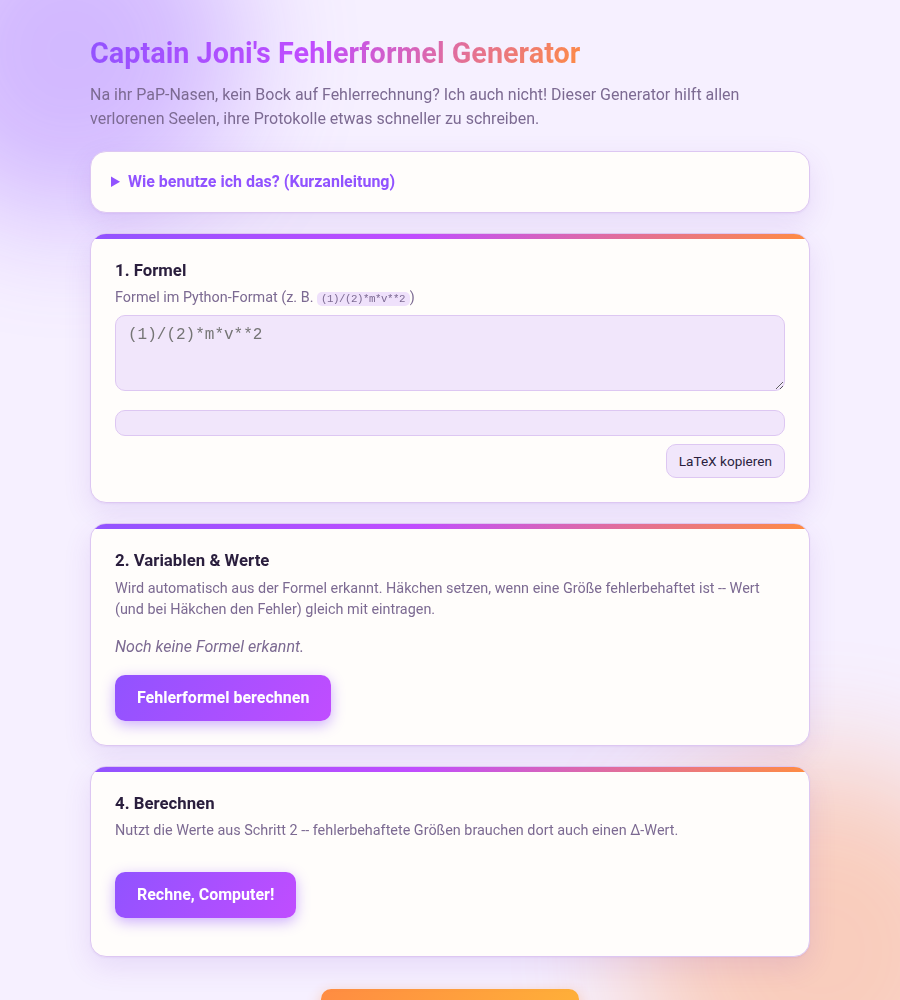
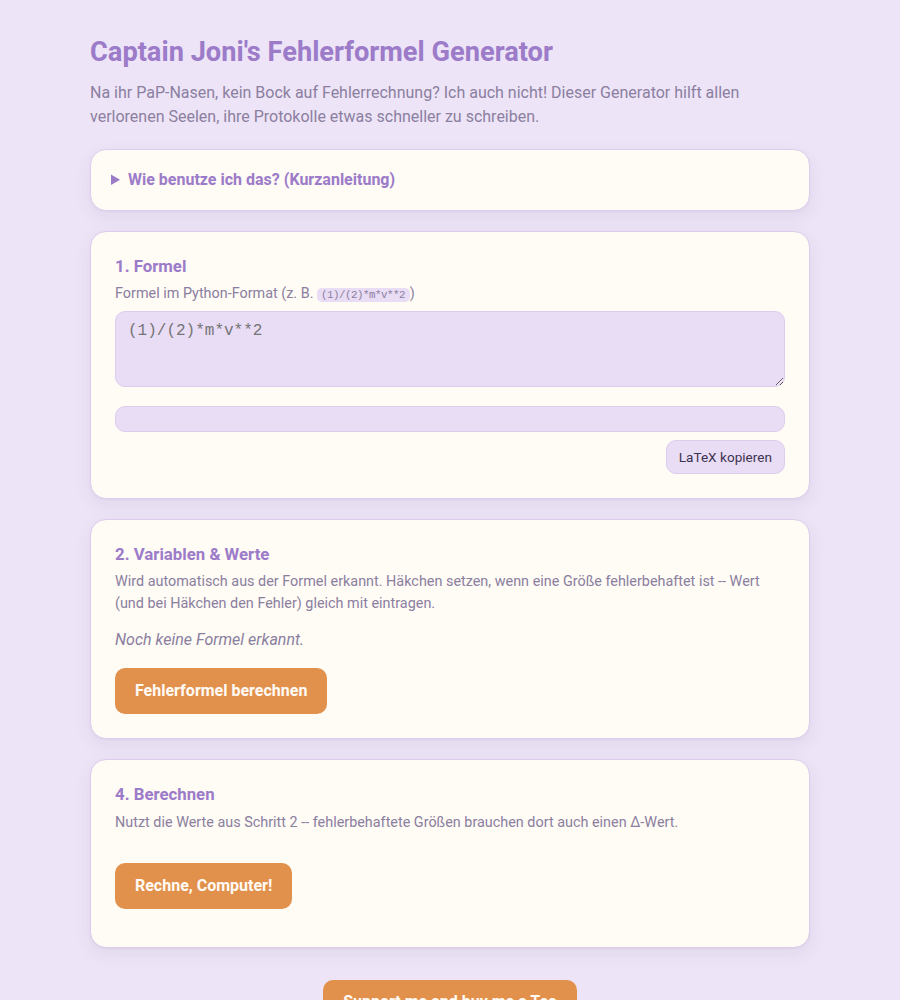
Tone down restyle: calmer, cozy pastel instead of neon/cyberpunk
The previous pass (6c60b06) was too much -- gradient headline, glowing
button shadows, blurred decorative blobs, saturated colors. Replaced with
a plain, muted pastel palette: soft lavender page background, warm cream
cards, no gradients/glow/decorative shapes anywhere.

Kept the purple/orange split but reassigned the roles per feedback: purple
(--accent) is now the calm, ambient/structural color (background, card
borders, headings, links) and orange (--accent2) is reserved specifically
for interactive highlights -- every button, focus rings, known-constant
chips, the numeric result. Verified with the full Playwright regression
suite in both light and dark color-scheme emulation, and a rebuilt
docker-compose.local.yml container. README screenshots regenerated.

Changed region(s): [[0.0933, 0.496, 1.0, 1.0], [0.0, 0.0, 0.9022, 0.341], [0.1244, 0.403, 0.8711, 0.465]]

diff --git a/public/styles.css b/public/styles.css
@@ -1,44 +1,45 @@
 :root {
-    --bg: #f6f0ff;
-    --surface: #fffdfb;
-    --surface-muted: #f1e6fb;
-    --border: #ddc7f2;
-    --text: #2a1e3d;
-    --text-muted: #7c6a92;
-    --accent: #9153ff;
-    --accent-hover: #7c3aed;
+    --bg: #ede4f7;
+    --surface: #fffbf5;
+    --surface-muted: #e9dcf5;
+    --border: #ddccec;
+    --text: #3d3350;
+    --text-muted: #8b7fa0;
+    --accent: #9c7bc9;
+    --accent-hover: #8a67b8;
     --accent-contrast: #ffffff;
-    --accent2: #ff8c42;
-    --accent2-hover: #f7740f;
-    --accent2-contrast: #2a1206;
-    --danger-bg: #fdecea;
-    --danger-border: #f2b8b5;
-    --danger-text: #7a1f1a;
-    --code-bg: #efe1fb;
-    --shadow: 0 1px 2px rgba(120, 60, 200, 0.07), 0 10px 28px rgba(120, 60, 200, 0.12);
+    --accent2: #e2914c;
+    --accent2-hover: #cf7f3c;
+    --accent2-contrast: #fffaf4;
+    --accent2-soft: #f6e6d2;
+    --danger-bg: #fbeceb;
+    --danger-border: #f0c4c1;
+    --danger-text: #7a3a34;
+    --code-bg: #e9dcf5;
+    --shadow: 0 1px 2px rgba(80, 60, 100, 0.05), 0 6px 18px rgba(80, 60, 100, 0.07);
     --radius: 16px;
-    --gradient: linear-gradient(120deg, var(--accent), #c04dff 45%, var(--accent2));
 }
 
 @media (prefers-color-scheme: dark) {
     :root {
-        --bg: #180f26;
-        --surface: #241834;
-        --surface-muted: #2f2143;
-        --border: #46325f;
-        --text: #f5eeff;
-        --text-muted: #b6a3cf;
-        --accent: #b98bff;
-        --accent-hover: #cba3ff;
-        --accent-contrast: #1a1030;
-        --accent2: #ffab5e;
-        --accent2-hover: #ffbb7a;
-        --accent2-contrast: #2a1206;
-        --danger-bg: #3a1f1f;
-        --danger-border: #6b3634;
-        --danger-text: #f5b8b3;
-        --code-bg: #322347;
-        --shadow: 0 1px 2px rgba(0, 0, 0, 0.4), 0 10px 32px rgba(150, 80, 255, 0.18);
+        --bg: #221a30;
+        --surface: #2c2239;
+        --surface-muted: #362a47;
+        --border: #47385c;
+        --text: #f1e9fb;
+        --text-muted: #b3a3c8;
+        --accent: #c3a4e8;
+        --accent-hover: #d2b8ee;
+        --accent-contrast: #221a30;
+        --accent2: #e6a165;
+        --accent2-hover: #edb27e;
+        --accent2-contrast: #2c1808;
+        --accent2-soft: #402f22;
+        --danger-bg: #3a2523;
+        --danger-border: #63413c;
+        --danger-text: #f0b3ab;
+        --code-bg: #362a47;
+        --shadow: 0 1px 2px rgba(0, 0, 0, 0.25), 0 6px 20px rgba(0, 0, 0, 0.25);
     }
 }
 
@@ -47,50 +48,21 @@
 }
 
 html {
-    accent-color: var(--accent);
+    accent-color: var(--accent2);
 }
 
 body {
-    position: relative;
     margin: 0;
     padding: 32px 16px 64px;
     background: var(--bg);
     color: var(--text);
     font-family: -apple-system, BlinkMacSystemFont, "Segoe UI", Roboto, Helvetica, Arial, sans-serif;
     line-height: 1.5;
-    overflow-x: hidden;
-}
-
-/* funky blurred blobs floating behind the content -- purely decorative */
-body::before, body::after {
-    content: "";
-    position: fixed;
-    z-index: -1;
-    border-radius: 50%;
-    filter: blur(60px);
-    opacity: 0.35;
-    pointer-events: none;
-}
-
-body::before {
-    top: -120px;
-    left: -100px;
-    width: 340px;
-    height: 340px;
-    background: var(--accent);
-}
-
-body::after {
-    bottom: -140px;
-    right: -110px;
-    width: 380px;
-    height: 380px;
-    background: var(--accent2);
 }
 
 ::selection {
-    background: var(--accent2);
-    color: var(--accent2-contrast);
+    background: var(--accent2-soft);
+    color: var(--text);
 }
 
 main {
@@ -107,14 +79,9 @@ main {
 }
 
 .page-header h1 {
-    font-size: 1.8em;
+    font-size: 1.7em;
     margin: 0 0 8px;
-    background: var(--gradient);
-    -webkit-background-clip: text;
-    background-clip: text;
     color: var(--accent);
-    -webkit-text-fill-color: transparent;
-    display: inline-block;
 }
 
 .subtitle {
@@ -159,27 +126,17 @@ code {
 }
 
 .card {
-    position: relative;
     background: var(--surface);
     border: 1px solid var(--border);
     border-radius: var(--radius);
     box-shadow: var(--shadow);
-    padding: 24px 24px 24px;
-    overflow: hidden;
-    transition: transform 0.15s ease, box-shadow 0.15s ease;
-}
-
-.card::before {
-    content: "";
-    position: absolute;
-    inset: 0 0 auto 0;
-    height: 5px;
-    background: var(--gradient);
+    padding: 22px 24px 24px;
 }
 
 .card h2 {
     font-size: 1.05em;
     margin: 0 0 4px;
+    color: var(--accent);
 }
 
 .hint {
@@ -210,7 +167,7 @@ textarea, input[type="text"] {
 textarea:focus, input[type="text"]:focus {
     outline: none;
     border-color: var(--accent2);
-    box-shadow: 0 0 0 3px color-mix(in srgb, var(--accent2) 30%, transparent);
+    box-shadow: 0 0 0 3px color-mix(in srgb, var(--accent2) 18%, transparent);
 }
 
 textarea {
@@ -233,7 +190,7 @@ button {
     cursor: pointer;
     border-radius: 10px;
     border: none;
-    transition: filter 0.15s ease, transform 0.05s ease, box-shadow 0.15s ease;
+    transition: background-color 0.15s ease, transform 0.05s ease;
 }
 
 button:active {
@@ -242,15 +199,14 @@ button:active {
 
 .primary-button {
     margin-top: 16px;
-    padding: 11px 22px;
-    background: linear-gradient(120deg, var(--accent), #c04dff);
-    color: var(--accent-contrast);
-    font-weight: 700;
-    box-shadow: 0 4px 14px color-mix(in srgb, var(--accent) 45%, transparent);
+    padding: 11px 20px;
+    background: var(--accent2);
+    color: var(--accent2-contrast);
+    font-weight: 600;
 }
 
 .primary-button:hover {
-    filter: brightness(1.08);
+    background: var(--accent2-hover);
 }
 
 .secondary-button {
@@ -270,7 +226,6 @@ button:active {
     color: var(--accent2);
     font-size: 0.85em;
     padding: 2px 0;
-    font-weight: 600;
     text-decoration: underline;
     text-underline-offset: 2px;
 }
@@ -330,8 +285,7 @@ button:active {
 
 .var-row--constant {
     grid-template-columns: 1fr auto;
-    background: color-mix(in srgb, var(--accent2) 10%, var(--surface-muted));
-    border: 1px dashed color-mix(in srgb, var(--accent2) 45%, transparent);
+    background: var(--accent2-soft);
 }
 
 .const-info {
@@ -393,8 +347,8 @@ button:active {
 
 .result-box {
     margin-top: 14px;
-    font-size: 1.4em;
-    font-weight: 800;
+    font-size: 1.3em;
+    font-weight: 700;
     color: var(--accent2);
 }
 
@@ -405,16 +359,15 @@ button:active {
 }
 
 .donate-button {
-    background: linear-gradient(120deg, var(--accent2), #ffb238);
+    background: var(--accent2);
     color: var(--accent2-contrast);
     border: none;
-    padding: 11px 22px;
-    font-weight: 700;
-    box-shadow: 0 4px 14px color-mix(in srgb, var(--accent2) 45%, transparent);
+    padding: 10px 20px;
+    font-weight: 600;
 }
 
 .donate-button:hover {
-    filter: brightness(1.06);
+    background: var(--accent2-hover);
 }
 
 @media (max-width: 560px) {
